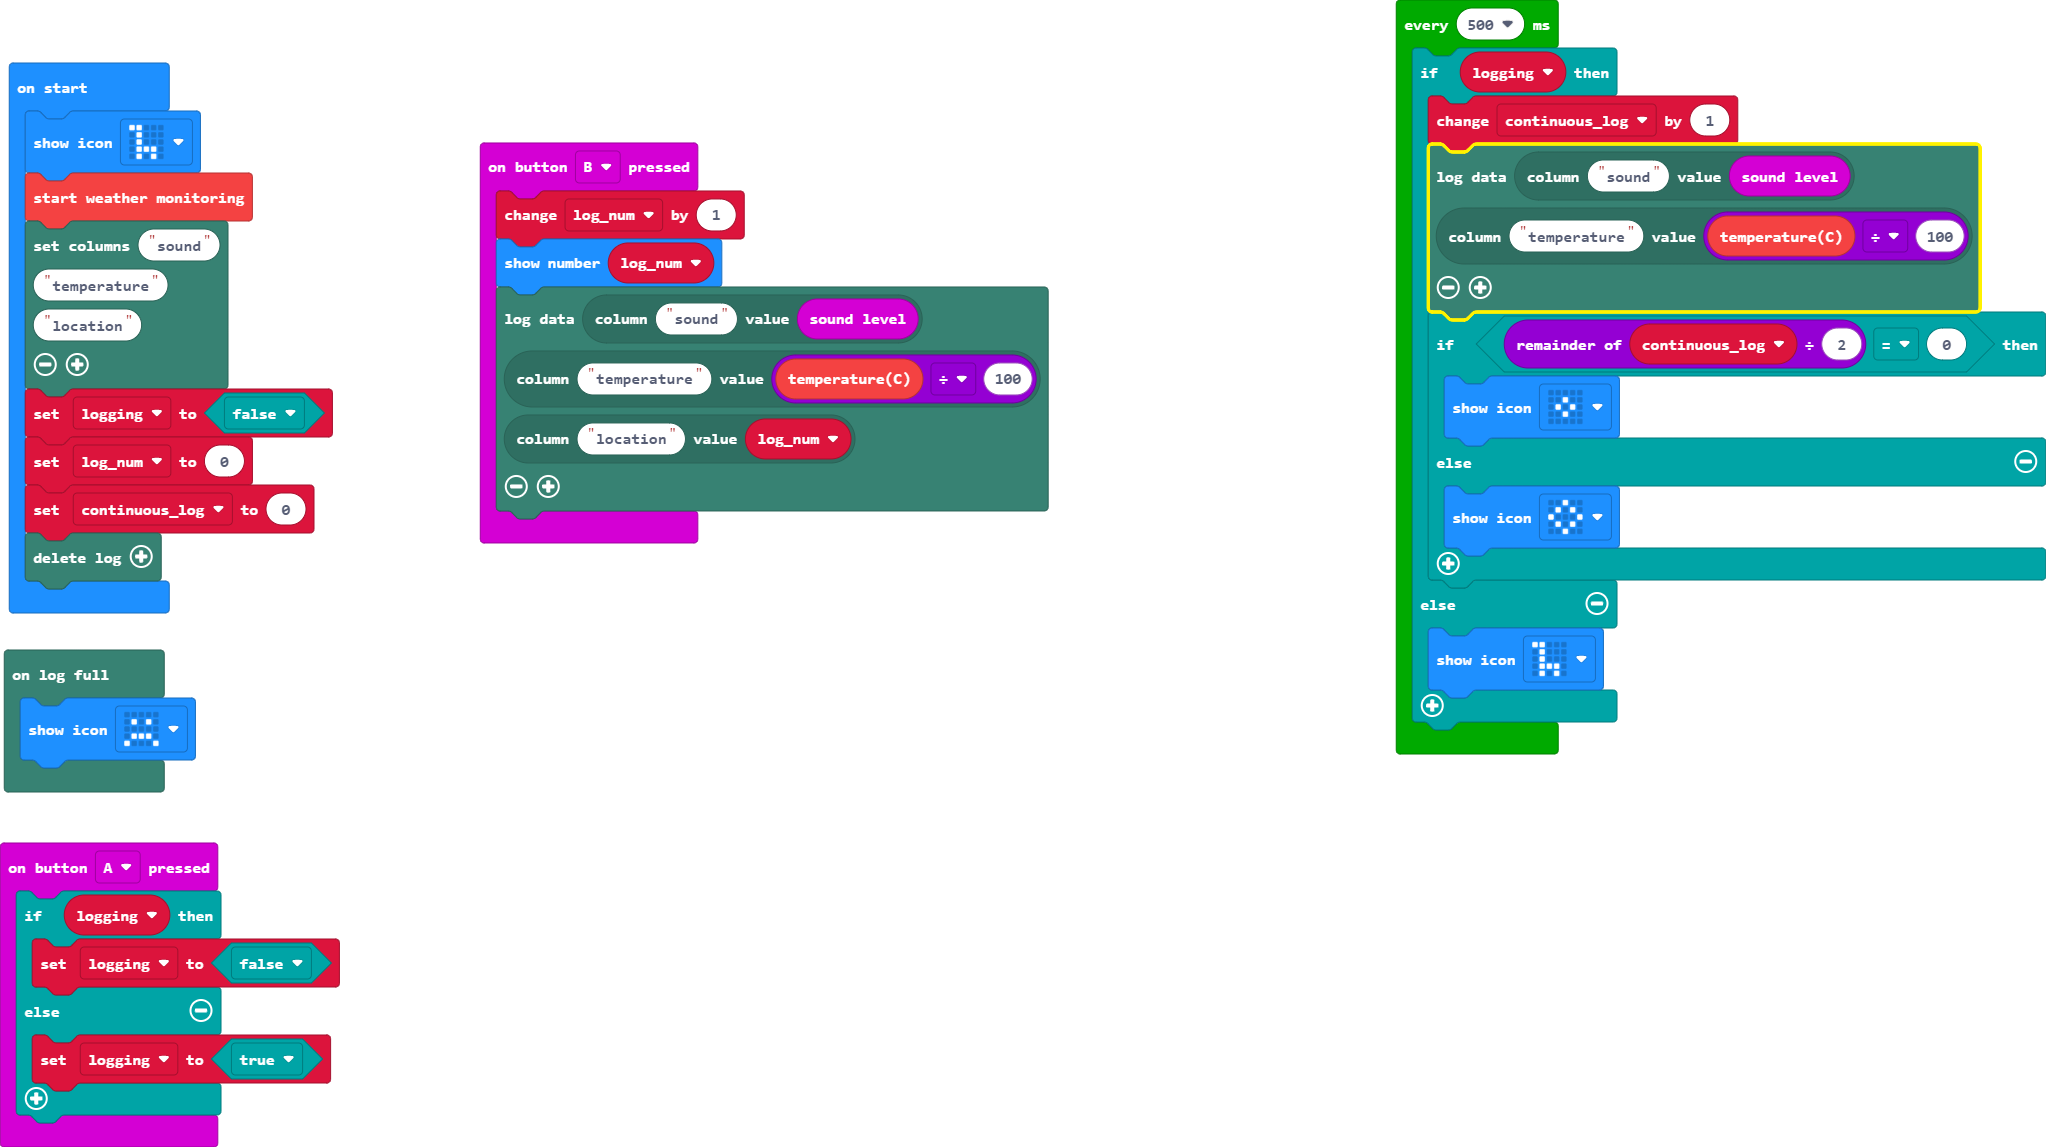
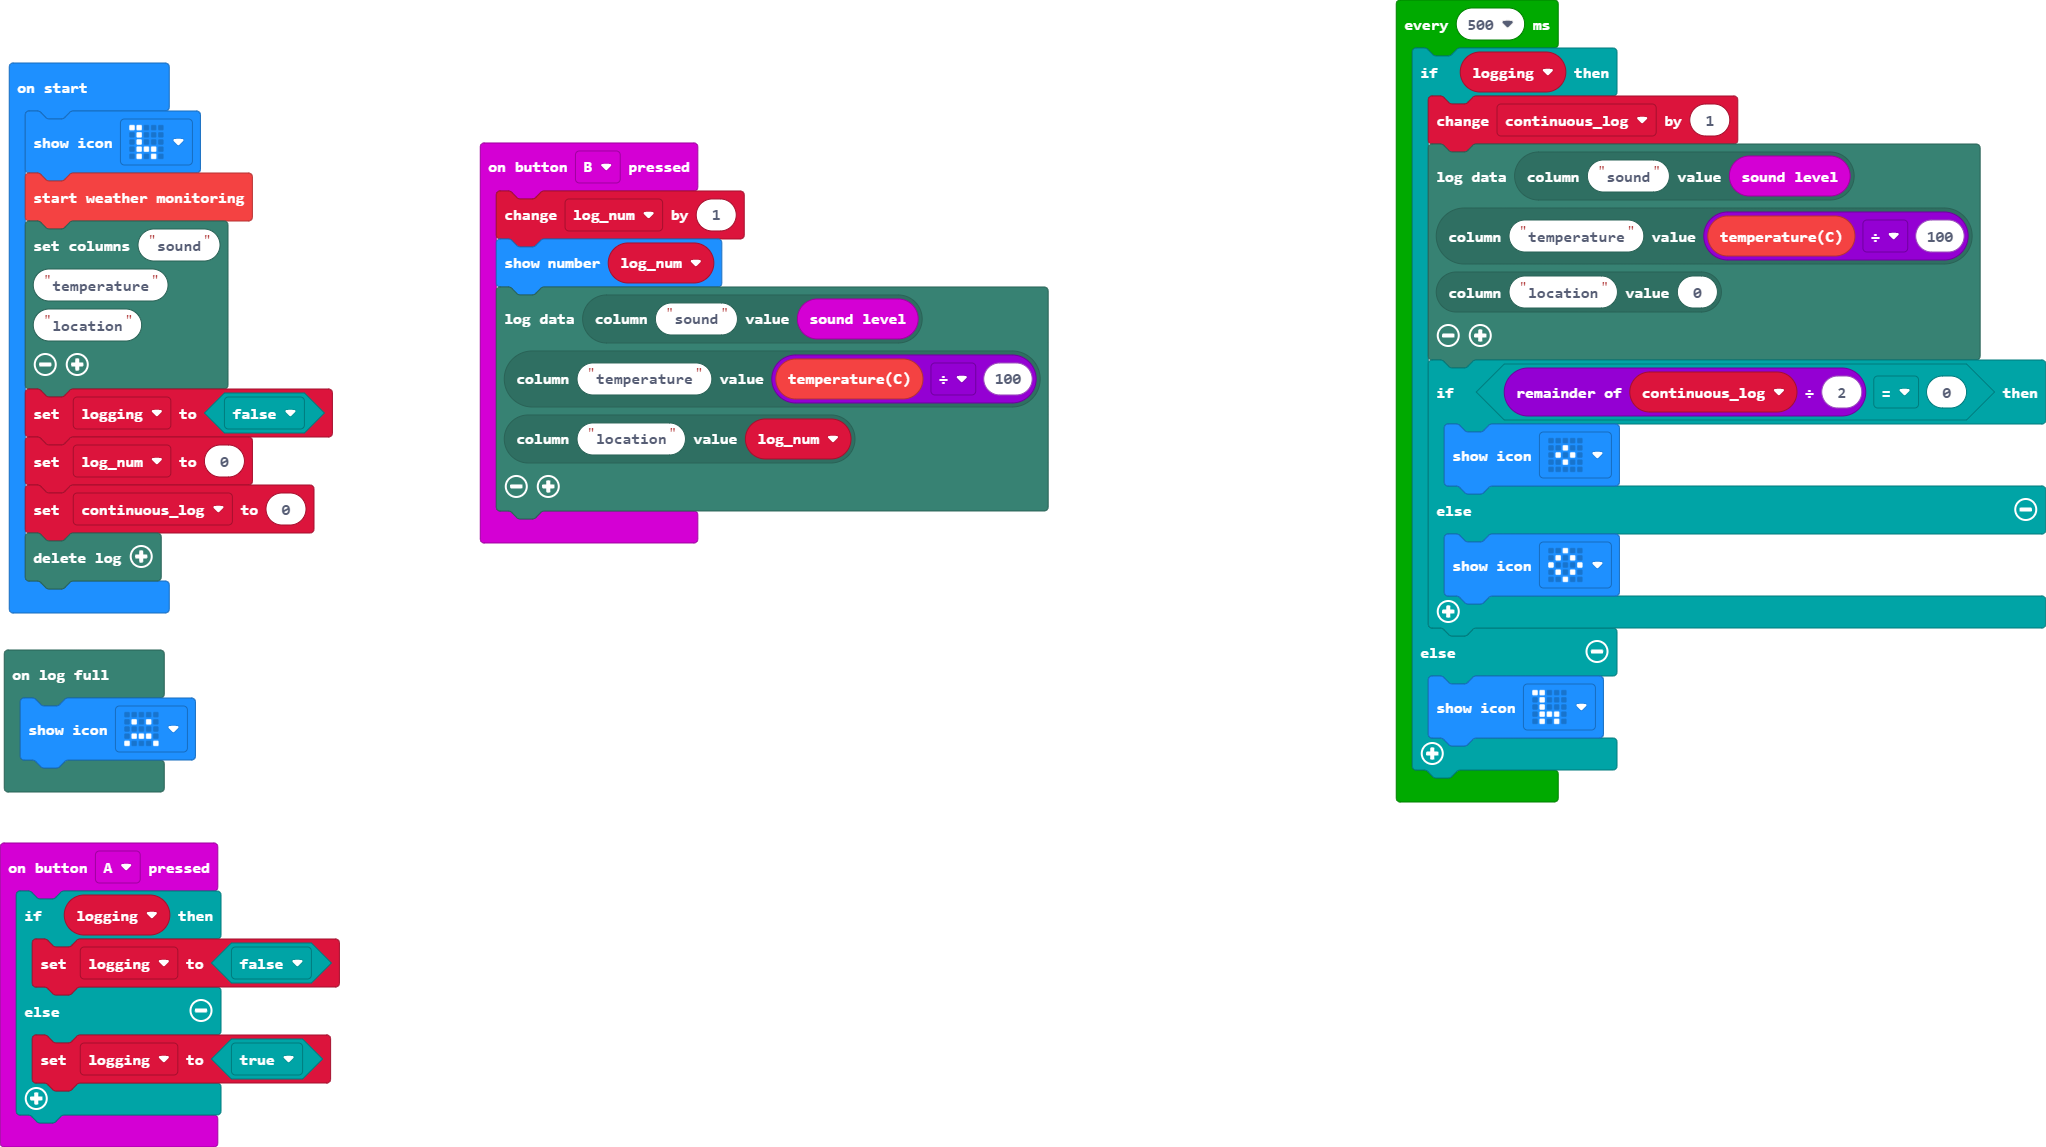
Update main.blocks, main.ts

Changed region(s): [[0.6774, 0.2136, 1.0, 0.7018], [0.7082, 0.1221, 0.9853, 0.1526]]

diff --git a/main.ts b/main.ts
@@ -35,7 +35,8 @@ loops.everyInterval(500, function () {
         continuous_log += 1
         datalogger.log(
         datalogger.createCV("sound", input.soundLevel()),
-        datalogger.createCV("temperature", weatherbit.temperature() / 100)
+        datalogger.createCV("temperature", weatherbit.temperature() / 100),
+        datalogger.createCV("location", 0)
         )
         if (continuous_log % 2 == 0) {
             basic.showIcon(IconNames.SmallDiamond)
